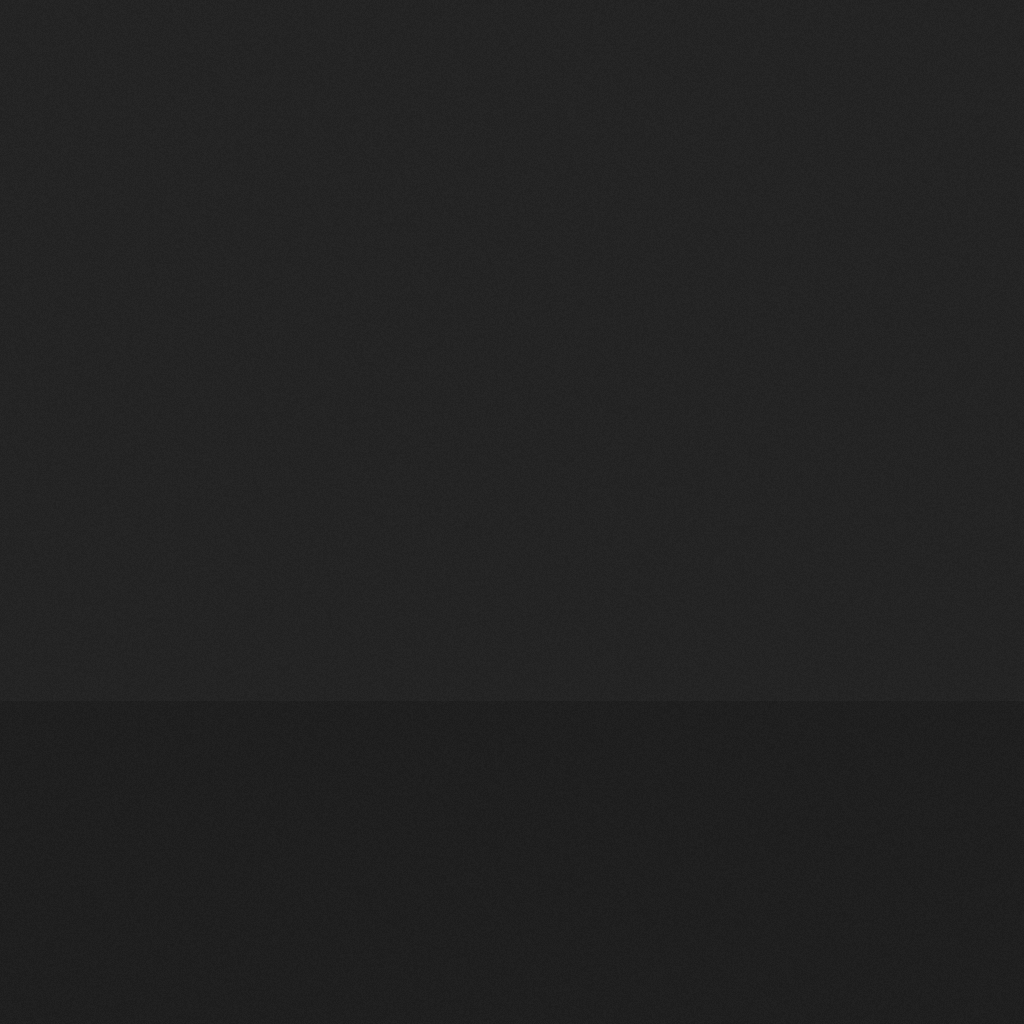
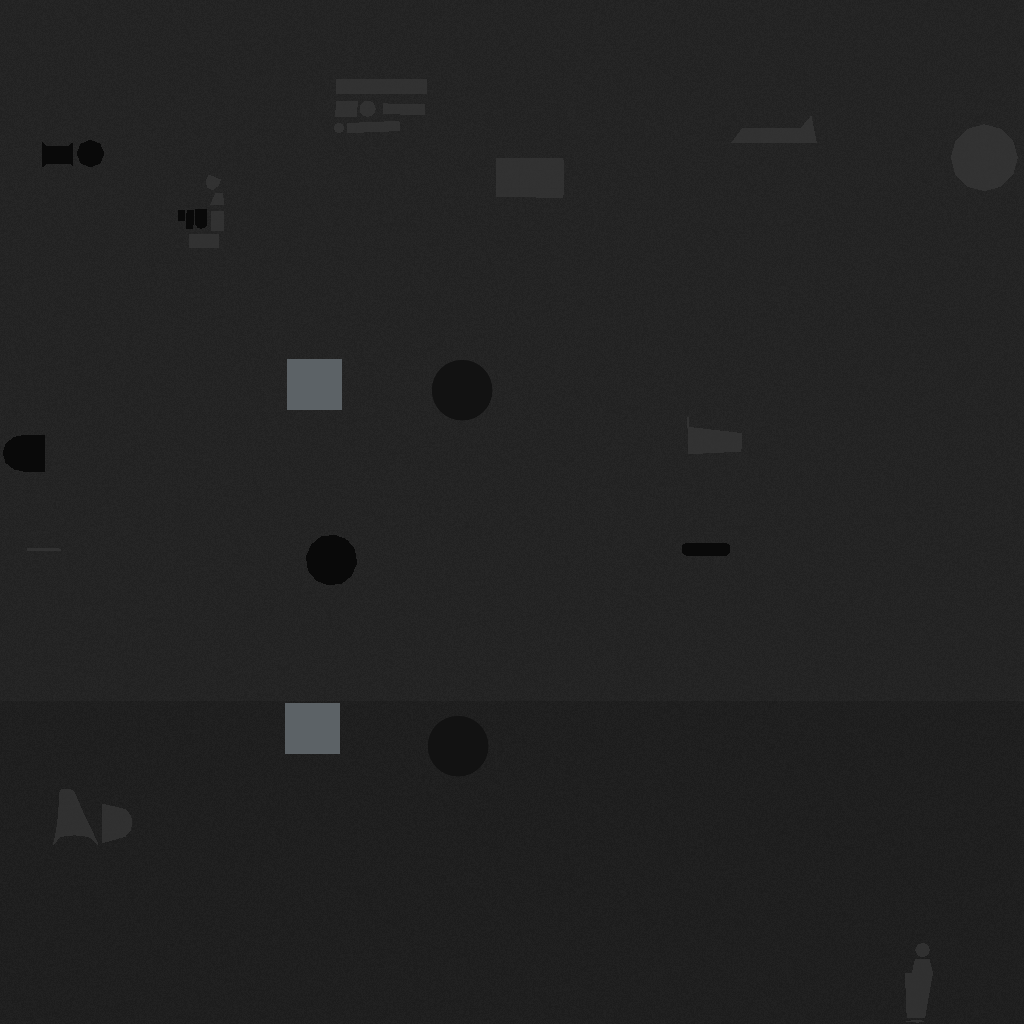
Refine S-70CM stores and livery

diff --git a/reference/rocn/s-70cm_livery_palette.md b/reference/rocn/s-70cm_livery_palette.md
@@ -1,0 +1,34 @@
+# ROCN S-70C(M) Livery Palette
+
+Last updated: 2026-07-10
+
+This livery source is built for the workshop SH-60 mesh used as the current ROCN S-70C(M) stand-in.
+
+## Runtime Textures
+
+- Diffuse: `mod/assets/rocn/aircraft/s-70cm/liveries/roc_s-70cm_sh60_gray.png`
+- Specular: `mod/assets/rocn/aircraft/s-70cm/liveries/roc_s-70cm_sh60_spec.png`
+- Layered source: `mod/assets/rocn/aircraft/s-70cm/sources/roc_s-70cm_sh60_livery.psd`
+
+## PSD Layers
+
+| Layer | Purpose |
+| --- | --- |
+| 02 Correct low-vis ROCN roundels | Editable corrected national roundel layer |
+| 01 Livery base no roundels | Flattened livery base without roundels |
+
+## Texture Regions
+
+| Region | Purpose | Main colors |
+| --- | --- | --- |
+| Base gray fuselage | Overall ROCN light-gray paint | `#879296`, `#7F8A8E` |
+| Panel shade lines | Subtle panel seams and weathering | `#46525A` at low opacity |
+| Wheels and landing gear | Rubber tires and metal struts | Rubber `#101316`; metal `#7A858A` |
+| Side door glass | Smoked cabin-door windows | Deep glass `#121E26`; highlight `#879EAA` |
+| Low-vis ROCN roundels | Low-visibility ROC emblem with circular field, 12 separate broad triangular rays, larger center circle, and visible field gaps | Disc `#707E84`; outline `#505C64`; sun `#D2D8DA` |
+
+## Notes
+
+- No fuselage serial number is painted in this version.
+- The roundel follows the ROC emblem layout from the provided reference: a circular field, 12 separate broad rays, and a larger central circle.
+- The side door glass is painted on the diffuse texture because the workshop SH-60 side-door window is part of the main fuselage UV rather than the separate canopy material.